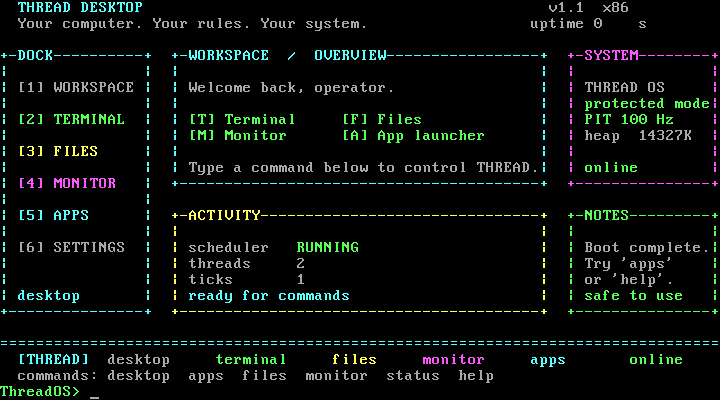
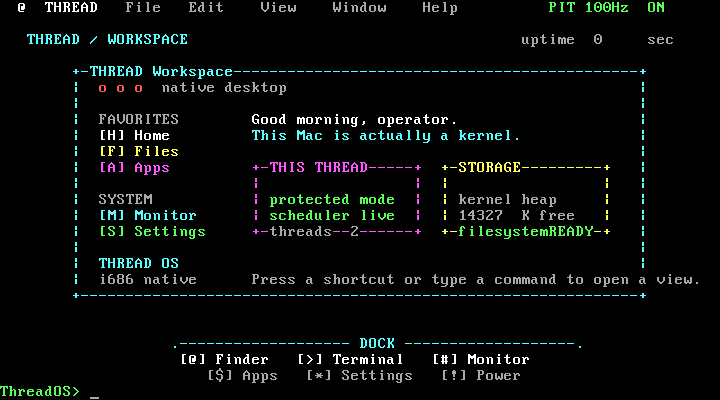
Replace the desktop shell with a macOS-inspired workspace

diff --git a/kernel/desktop.c b/kernel/desktop.c
@@ -43,72 +43,66 @@ static void panel(int x, int y, int w, int h, const char *title, uint8_t border,
 void desktop_draw(void) {
     uint8_t fg = shell_theme_fg();
     uint8_t bg = shell_theme_bg();
-    uint8_t accent = VGA_COLOR_LIGHT_CYAN;
-    uint8_t dim = VGA_COLOR_LIGHT_GREY;
+    uint8_t white = VGA_COLOR_WHITE;
+    uint8_t silver = VGA_COLOR_LIGHT_GREY;
+    uint8_t blue = VGA_COLOR_LIGHT_CYAN;
     uint8_t green = VGA_COLOR_LIGHT_GREEN;
-    uint8_t purple = VGA_COLOR_LIGHT_MAGENTA;
-    uint8_t yellow = VGA_COLOR_LIGHT_BROWN;
+    uint8_t violet = VGA_COLOR_LIGHT_MAGENTA;
+    uint8_t amber = VGA_COLOR_LIGHT_BROWN;
     uint8_t red = VGA_COLOR_LIGHT_RED;
 
     vga_clear();
-    /* Desktop chrome: a compact Windows-like shell built directly in VGA memory. */
-    fill_row(0, ' ', VGA_COLOR_BLUE);
-    text_at(2, 0, "THREAD", VGA_COLOR_WHITE);
-    text_at(10, 0, "DESKTOP", accent);
-    text_at(62, 0, "protected mode", dim);
-    text_at(75, 0, "ON", green);
-    fill_row(1, '.', bg);
-    text_at(2, 2, "WORKSPACE", accent);
-    text_at(13, 2, "your computer / your rules / your system", dim);
-    text_at(67, 2, "uptime", dim);
-    num_at(74, 2, timer_seconds(), fg);
+    /* THREAD Workspace: a macOS-inspired shell rendered directly by the kernel. */
+    fill_row(0, ' ', VGA_COLOR_DARK_GREY);
+    text_at(2, 0, "@", white);
+    text_at(5, 0, "THREAD", white);
+    text_at(14, 0, "File", silver);
+    text_at(21, 0, "Edit", silver);
+    text_at(29, 0, "View", silver);
+    text_at(37, 0, "Window", silver);
+    text_at(47, 0, "Help", silver);
+    text_at(61, 0, "PIT 100Hz", green);
+    text_at(72, 0, "ON", green);
+    fill_row(1, ' ', bg);
+    text_at(3, 2, "THREAD / WORKSPACE", blue);
+    text_at(58, 2, "uptime", silver);
+    num_at(66, 2, timer_seconds(), fg);
+    text_at(72, 2, "sec", silver);
 
-    /* Desktop icons. Keyboard shortcuts are the reliable input layer until mouse support lands. */
-    panel(2, 4, 17, 4, "TERMINAL", green, bg);
-    text_at(4, 6, "[1]  shell", fg);
-    panel(2, 9, 17, 4, "FILES", yellow, bg);
-    text_at(4, 11, "[2]  explorer", fg);
-    panel(2, 14, 17, 4, "MONITOR", purple, bg);
-    text_at(4, 16, "[3]  telemetry", fg);
+    panel(8, 4, 64, 15, "THREAD Workspace", blue, bg);
+    /* Window controls and Finder-like sidebar. */
+    text_at(11, 5, "o o o", red);
+    text_at(18, 5, "native desktop", silver);
+    text_at(11, 7, "FAVORITES", silver);
+    text_at(11, 8, "[H] Home", white);
+    text_at(11, 9, "[F] Files", amber);
+    text_at(11, 10, "[A] Apps", violet);
+    text_at(11, 12, "SYSTEM", silver);
+    text_at(11, 13, "[M] Monitor", blue);
+    text_at(11, 14, "[S] Settings", green);
+    text_at(11, 16, "THREAD OS", blue);
+    text_at(11, 17, "i686 native", silver);
 
-    panel(21, 4, 37, 8, "THREAD HUB  /  desktop", accent, bg);
-    text_at(23, 6, "Welcome back, operator.", fg);
-    text_at(23, 8, "[A] app launcher   [S] settings", green);
-    text_at(23, 9, "[T] terminal      [F] files", green);
-    text_at(23, 10, "[M] monitor       [H] home", green);
+    text_at(28, 7, "Good morning, operator.", white);
+    text_at(28, 8, "This Mac is actually a kernel.", blue);
+    panel(28, 10, 19, 5, "THIS THREAD", violet, bg);
+    text_at(30, 12, "protected mode", green);
+    text_at(30, 13, "scheduler live", green);
+    text_at(30, 14, "threads", silver);
+    num_at(39, 14, thread_count_active(), fg);
+    panel(49, 10, 19, 5, "STORAGE", amber, bg);
+    text_at(51, 12, "kernel heap", silver);
+    num_at(51, 13, kmem_available() / 1024, fg);
+    text_at(58, 13, "K free", silver);
+    text_at(51, 14, "filesystem", green);
+    text_at(61, 14, "READY", green);
+    text_at(28, 17, "Press a shortcut or type a command to open a view.", silver);
 
-    panel(60, 4, 18, 8, "SYSTEM", purple, bg);
-    text_at(62, 6, "THREAD OS", fg);
-    text_at(62, 7, "kernel online", green);
-    text_at(62, 8, "PIT 100 Hz", green);
-    text_at(62, 9, "threads", dim);
-    num_at(71, 9, thread_count_active(), fg);
-    text_at(62, 10, "heap", dim);
-    num_at(67, 10, kmem_available() / 1024, fg);
-    text_at(72, 10, "K free", dim);
-
-    panel(21, 14, 37, 5, "ACTIVITY CENTER", yellow, bg);
-    text_at(23, 16, "scheduler", dim);
-    text_at(34, 16, "RUNNING", green);
-    text_at(23, 17, "active threads", dim);
-    num_at(38, 17, thread_count_active(), fg);
-    text_at(23, 18, "ready for commands", accent);
-
-    panel(60, 14, 18, 5, "NOTIFICATIONS", red, bg);
-    text_at(62, 16, "Boot complete", fg);
-    text_at(62, 17, "No new alerts", dim);
-    text_at(62, 18, "safe to use", green);
-
-    /* Taskbar and start button. */
-    fill_row(21, '=', accent);
-    text_at(2, 22, "[THREAD]", VGA_COLOR_WHITE);
-    text_at(13, 22, "desktop", fg);
-    text_at(25, 22, "terminal", green);
-    text_at(37, 22, "files", yellow);
-    text_at(47, 22, "monitor", purple);
-    text_at(59, 22, "apps", accent);
-    text_at(69, 22, "online", green);
-    text_at(2, 23, "start  desktop  apps  files  monitor  settings  help", dim);
+    /* Dock: compact, centered, and keyboard-first until a mouse driver arrives. */
+    fill_row(21, ' ', bg);
+    text_at(19, 21, ".------------------- DOCK -------------------.", blue);
+    text_at(20, 22, "[@] Finder   [>] Terminal   [#] Monitor", white);
+    text_at(23, 23, "[$] Apps   [*] Settings   [!] Power", silver);
     vga_set_cursor(0, 24);
 }
 

diff --git a/kernel/shell.c b/kernel/shell.c
@@ -235,14 +235,14 @@ static void cmd_help(void) {
     vga_set_color(VGA_COLOR_WHITE, themes[theme_index].bg);
     vga_printf("Available ThreadOS commands:\n");
     vga_set_color(themes[theme_index].fg, themes[theme_index].bg);
-    vga_printf("  desktop / workspace / start - open the Windows-style THREAD Desktop\n");
+    vga_printf("  desktop / workspace / home - open the macOS-inspired THREAD Workspace\n");
     vga_printf("  apps / launcher     - open the real text-mode app launcher\n");
     vga_printf("  files               - open the THREAD Files view\n");
     vga_printf("  monitor             - open live scheduler/memory monitor\n");
     vga_printf("  status              - show subsystem health status\n");
     vga_printf("  settings / theme    - open settings and personalization\n");
     vga_printf("  theme next          - cycle theme and return to desktop\n");
-    vga_printf("  open <app>          - open desktop, files, monitor, apps, or settings\n");
+    vga_printf("  open <app>          - open workspace, finder, terminal, monitor, apps, or settings\n");
     vga_printf("  help                - show this command list\n");
     vga_printf("  threads / ps        - list all threads and their live states\n");
     vga_printf("  spawn <name> [prio] - launch a background worker thread (prio 0-3)\n");
@@ -316,7 +316,7 @@ static void dispatch(int argc, char *argv[]) {
     else if (strcmp(cmd, "bench") == 0 || strcmp(cmd, "stress") == 0) cmd_bench();
     else if (strcmp(cmd, "mem") == 0)         cmd_mem();
     else if (strcmp(cmd, "about") == 0)       cmd_about();
-    else if (strcmp(cmd, "desktop") == 0 || strcmp(cmd, "workspace") == 0 || strcmp(cmd, "start") == 0) {
+    else if (strcmp(cmd, "desktop") == 0 || strcmp(cmd, "workspace") == 0 || strcmp(cmd, "start") == 0 || strcmp(cmd, "home") == 0) {
         desktop_draw();
         serial_puts("[desktop] workspace dashboard ready\n");
     }
@@ -349,10 +349,11 @@ static void dispatch(int argc, char *argv[]) {
     else if (strcmp(cmd, "open") == 0 && argc > 1) {
         if (strcmp(argv[1], "files") == 0) desktop_show_files();
         else if (strcmp(argv[1], "monitor") == 0) desktop_show_monitor();
+        else if (strcmp(argv[1], "terminal") == 0) { vga_clear(); vga_set_cursor(0, 0); }
         else if (strcmp(argv[1], "apps") == 0) desktop_show_apps();
         else if (strcmp(argv[1], "settings") == 0) desktop_show_settings();
         else if (strcmp(argv[1], "desktop") == 0) desktop_draw();
-        else vga_printf("Unknown app '%s'. Try: files, monitor, apps, desktop\n", argv[1]);
+        else vga_printf("Unknown app '%s'. Try: finder, terminal, monitor, apps, desktop\n", argv[1]);
     }
     else if (strcmp(cmd, "clear") == 0) {
         vga_clear();

diff --git a/README.md b/README.md
@@ -4,9 +4,9 @@
   <p><strong>your computer your rules your system</strong></p>
   <p>real bootable x86 os · preemptive kernel · kernel rendered desktop</p>
 
-  <a href="https://github.com/jamilislamov642-cell/thread-os/releases/download/v1.3.0/threados-v1.3.0-complete.zip"><img src="https://img.shields.io/badge/DOWNLOAD-PACKAGE-7C5CFF?style=for-the-badge&logo=archive&logoColor=white" alt="Download package"></a>
-  <a href="https://github.com/jamilislamov642-cell/thread-os/releases/download/v1.3.0/threados.iso"><img src="https://img.shields.io/badge/BOOT-ISO-00C2FF?style=for-the-badge&logo=linux&logoColor=071018" alt="Boot ISO"></a>
-  <a href="https://github.com/jamilislamov642-cell/thread-os/releases/download/v1.3.0/threados.img"><img src="https://img.shields.io/badge/BOOT-USB-00D68F?style=for-the-badge&logo=usb&logoColor=071018" alt="Boot USB image"></a>
+  <a href="https://github.com/jamilislamov642-cell/thread-os/releases/download/v1.4.0/threados-v1.4.0-complete.zip"><img src="https://img.shields.io/badge/DOWNLOAD-PACKAGE-7C5CFF?style=for-the-badge&logo=archive&logoColor=white" alt="Download package"></a>
+  <a href="https://github.com/jamilislamov642-cell/thread-os/releases/download/v1.4.0/threados.iso"><img src="https://img.shields.io/badge/BOOT-ISO-00C2FF?style=for-the-badge&logo=linux&logoColor=071018" alt="Boot ISO"></a>
+  <a href="https://github.com/jamilislamov642-cell/thread-os/releases/download/v1.4.0/threados.img"><img src="https://img.shields.io/badge/BOOT-USB-00D68F?style=for-the-badge&logo=usb&logoColor=071018" alt="Boot USB image"></a>
   <a href="https://github.com/jamilislamov642-cell/thread-os/releases"><img src="https://img.shields.io/badge/RELEASES-FF4D6D?style=for-the-badge&logo=github&logoColor=white" alt="Releases"></a>
 
   <br>
@@ -25,16 +25,16 @@ THREAD OS is a small real operating system that boots from BIOS and drops into i
 
 no browser mockup. no fake progress. just a bootloader a kernel a scheduler and a surprisingly colorful VGA screen.
 
-> **latest:** `v1.3.0` · **tests:** `23/23 pass` · **arch:** `i686`
+> **latest:** `v1.4.0` · **tests:** `23/23 pass` · **arch:** `i686`
 
 ## download the first package
 
 | file | what it is |
 |:--|:--|
-| [complete package](https://github.com/jamilislamov642-cell/thread-os/releases/download/v1.3.0/threados-v1.3.0-complete.zip) | source docs screenshots binaries and images |
-| [bootable ISO](https://github.com/jamilislamov642-cell/thread-os/releases/download/v1.3.0/threados.iso) | QEMU VirtualBox or VMware |
-| [USB image](https://github.com/jamilislamov642-cell/thread-os/releases/download/v1.3.0/threados.img) | raw floppy or legacy USB boot |
-| [release notes](https://github.com/jamilislamov642-cell/thread-os/releases/tag/v1.3.0) | checksums changelog and details |
+| [complete package](https://github.com/jamilislamov642-cell/thread-os/releases/download/v1.4.0/threados-v1.4.0-complete.zip) | source docs screenshots binaries and images |
+| [bootable ISO](https://github.com/jamilislamov642-cell/thread-os/releases/download/v1.4.0/threados.iso) | QEMU VirtualBox or VMware |
+| [USB image](https://github.com/jamilislamov642-cell/thread-os/releases/download/v1.4.0/threados.img) | raw floppy or legacy USB boot |
+| [release notes](https://github.com/jamilislamov642-cell/thread-os/releases/tag/v1.4.0) | checksums changelog and details |
 
 ## boot it
 
@@ -69,7 +69,7 @@ theme next    bench         about
 - VGA text output and PS2 keyboard
 - COM1 serial mirror
 - mutexes spinlocks and atomic counters
-- THREAD Desktop dashboard with Windows-style taskbar and desktop icons
+- THREAD Desktop dashboard with macOS-inspired top menu bar and dock
 - app launcher Files Monitor Status and Settings
 - four live color themes
 - QEMU test suite with 23 passing checks
@@ -78,7 +78,7 @@ theme next    bench         about
 
 <table>
   <tr>
-    <td><img src="docs/screenshot_desktop_windows.png" alt="THREAD Desktop Windows-style workspace" /></td>
+    <td><img src="docs/screenshot_desktop_macos.png" alt="THREAD Desktop macOS-inspired workspace" /></td>
     <td><img src="docs/screenshot_monitor.png" alt="THREAD Monitor" /></td>
   </tr>
   <tr>
@@ -97,14 +97,14 @@ theme next    bench         about
 
 Everything above is rendered by the native kernel into VGA memory and uses live scheduler timer heap and thread data.
 
-The new workspace adds a compact Windows-inspired shell: a blue title bar, desktop icons, windowed panels, a taskbar, a Start-style command row, notifications, and live system cards. It is still pure kernel-rendered VGA text, so it boots and works without a browser or graphical runtime.
+The new workspace adds a compact macOS-inspired shell: a top menu bar, Finder-like sidebar, native window controls, live system cards, and a centered dock. It is still pure kernel-rendered VGA text, so it boots and works without a browser or graphical runtime.
 
 ## commands worth trying
 
 | command | mood |
 |:--|:--|
-| `desktop` | open the Windows-style workspace |
-| `start` / `apps` | open the Start-style app launcher |
+| `desktop` | open the macOS-inspired workspace |
+| `home` / `apps` | return home or open the app launcher |
 | `files` | browse the native workspace view |
 | `monitor` | watch the kernel breathe |
 | `settings` | personalize the system |
@@ -132,7 +132,7 @@ The test suite boots the image in QEMU and checks boot handoff desktop startup a
 |:--|:--|
 | bootable native kernel | persistent filesystem |
 | preemptive multitasking | richer Files operations |
-| Windows-style taskbar and desktop shell | mouse and better input navigation |
+| macOS-inspired menu bar and dock | mouse and better input navigation |
 | live themes and telemetry | framebuffer graphics |
 | ISO and USB releases | graphical installer |
 

diff --git a/docs/USER_GUIDE.md b/docs/USER_GUIDE.md
@@ -298,15 +298,15 @@ gdb dist/kernel.elf
 
 ---
 
-## 12. THREAD Desktop v1.3 — Windows-style workspace
+## 12. THREAD Desktop v1.4 — macOS-inspired workspace
 
 The kernel now boots directly into a VGA dashboard inspired by the supplied `thread-desktop-v2.html` interface. Because the native OS does not contain a browser or JavaScript runtime, the desktop is implemented as a real kernel-rendered text UI backed by VGA memory and live kernel telemetry.
 
-The dashboard now boots into a compact Windows-inspired workspace with a blue title bar, desktop icons, window-like panels, a taskbar, notifications, activity cards, and a shell prompt. It is still implemented entirely by the kernel in VGA memory. The following commands open working views:
+The dashboard now boots into a compact macOS-inspired workspace with a top menu bar, Finder-like sidebar, native window controls, live system cards, a centered dock, and a shell prompt. It is still implemented entirely by the kernel in VGA memory. The following commands open working views:
 
 ```text
-ThreadOS> desktop     # Windows-style workspace dashboard
-ThreadOS> start       # same dashboard via Start-style alias
+ThreadOS> desktop     # macOS-inspired workspace dashboard
+ThreadOS> home        # same workspace via home alias
 ThreadOS> apps        # app launcher
 ThreadOS> files       # Files view
 ThreadOS> monitor     # live scheduler + memory telemetry
@@ -320,4 +320,4 @@ ThreadOS> theme next  # cycle theme and redraw the dashboard
 
 `monitor` reports the real PIT tick count, uptime, heap size/free memory, active threads, per-thread runtime, and context-switch totals. `files` is currently a kernel-provided workspace view; the filesystem driver and persistent disk-backed user files remain part of the next roadmap tier. `apps` exposes the real terminal, Files, Monitor, benchmark, Settings, and About surfaces available in this native build.
 
-The view tests are included in `scripts/test.sh`; all 23 boot, desktop, settings, theme, scheduler, concurrency, memory, and shutdown checks pass in QEMU. The new dashboard is captured in `docs/screenshot_desktop_windows.png`.
+The view tests are included in `scripts/test.sh`; all 23 boot, desktop, settings, theme, scheduler, concurrency, memory, and shutdown checks pass in QEMU. The new dashboard is captured in `docs/screenshot_desktop_macos.png`.
